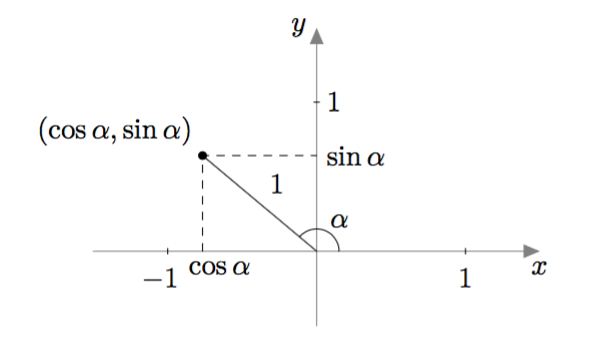
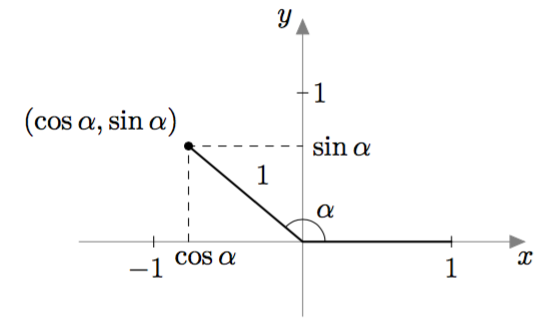
Kuvien muokkaus

diff --git a/kurssit/maa3/luku1/index.html b/kurssit/maa3/luku1/index.html
@@ -997,6 +997,10 @@ topnav: maa3
         <div id="tylppa" class="collapse">
 
             <p>
+                Edellisessä kappaleessa määriteltiin terävän kulman kosini ja sini suorakulmaisen kolmion sivujen pituuksien suhteina. Tässä kappaleessa otetaan käyttöön määritelmä, joka sopii kaikille kulmille nollakulmasta oikokulmaan. 
+            </p>
+
+            <p>
                 Tarkastellaan kulmaa $\alpha$, joka on välillä $[0^\circ, 180^\circ]$. Merkitään tämä kulma koordinaatistoon kuten alla olevassa kuvassa: piirretään origosta lähtevä jana, joka muodostaa positiivisen $x$-akselin kanssa kulman $\alpha$ ja jonka pituus on $1$.
             </p>
             <p>
